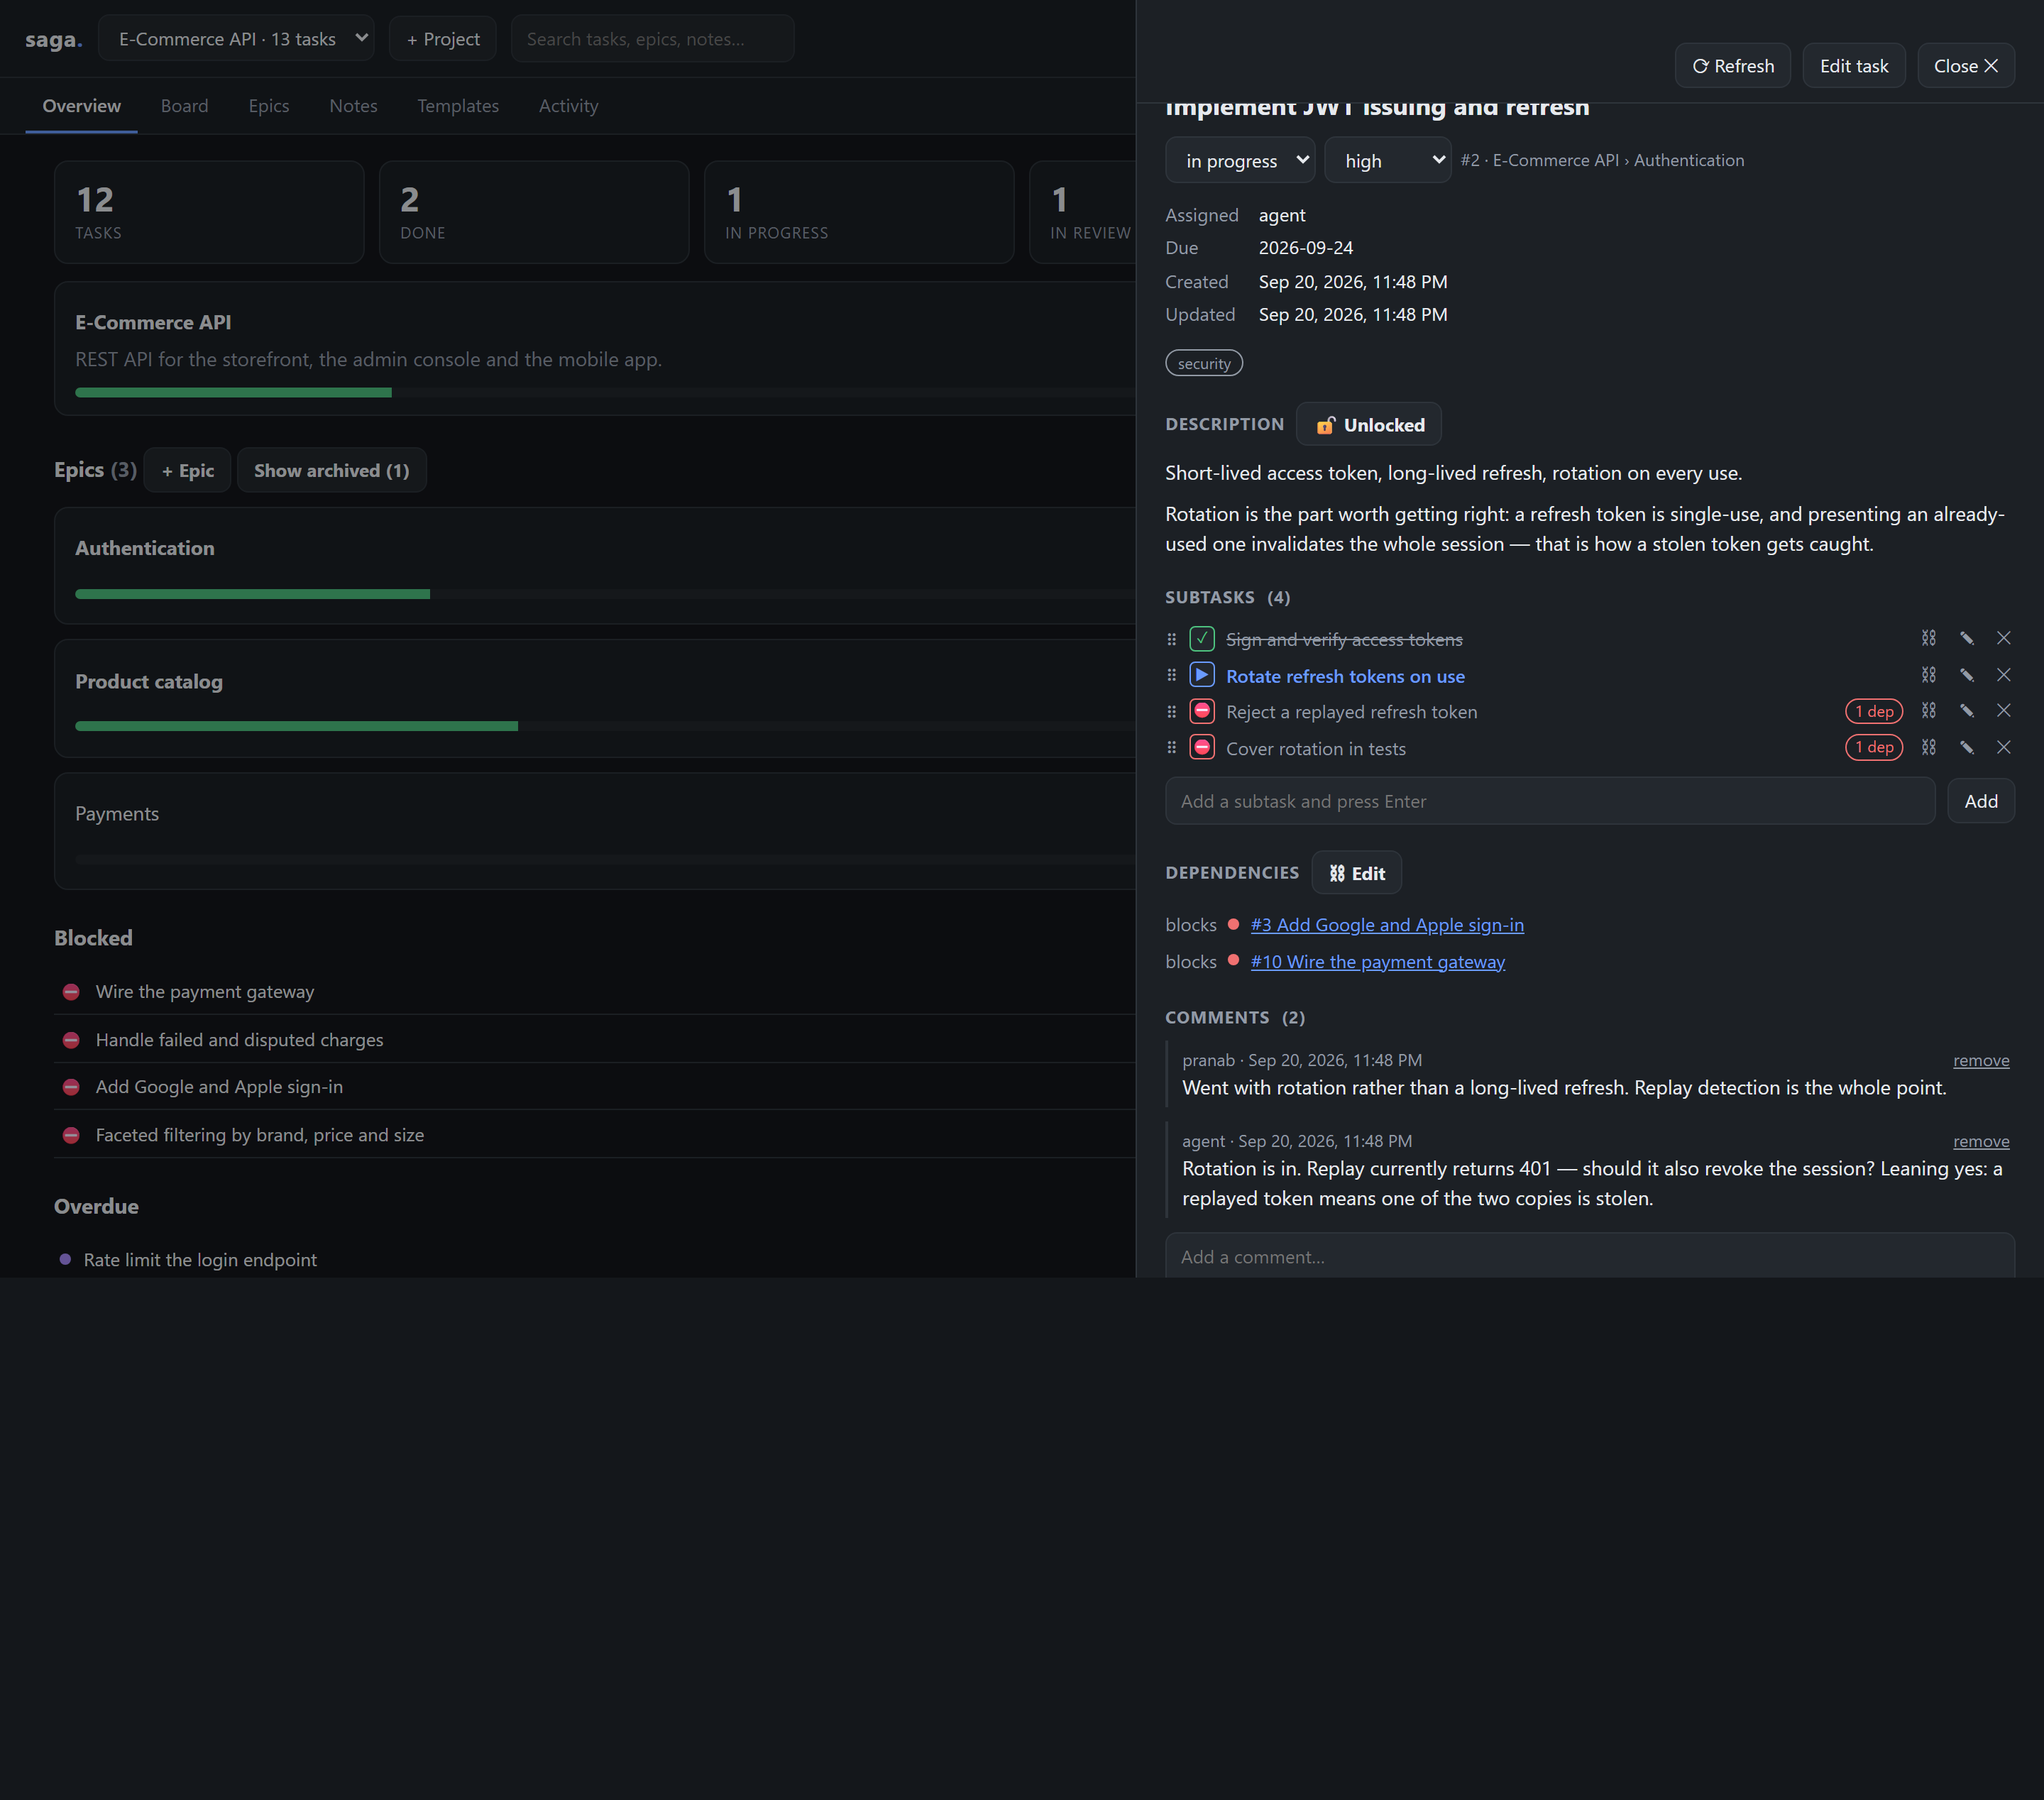
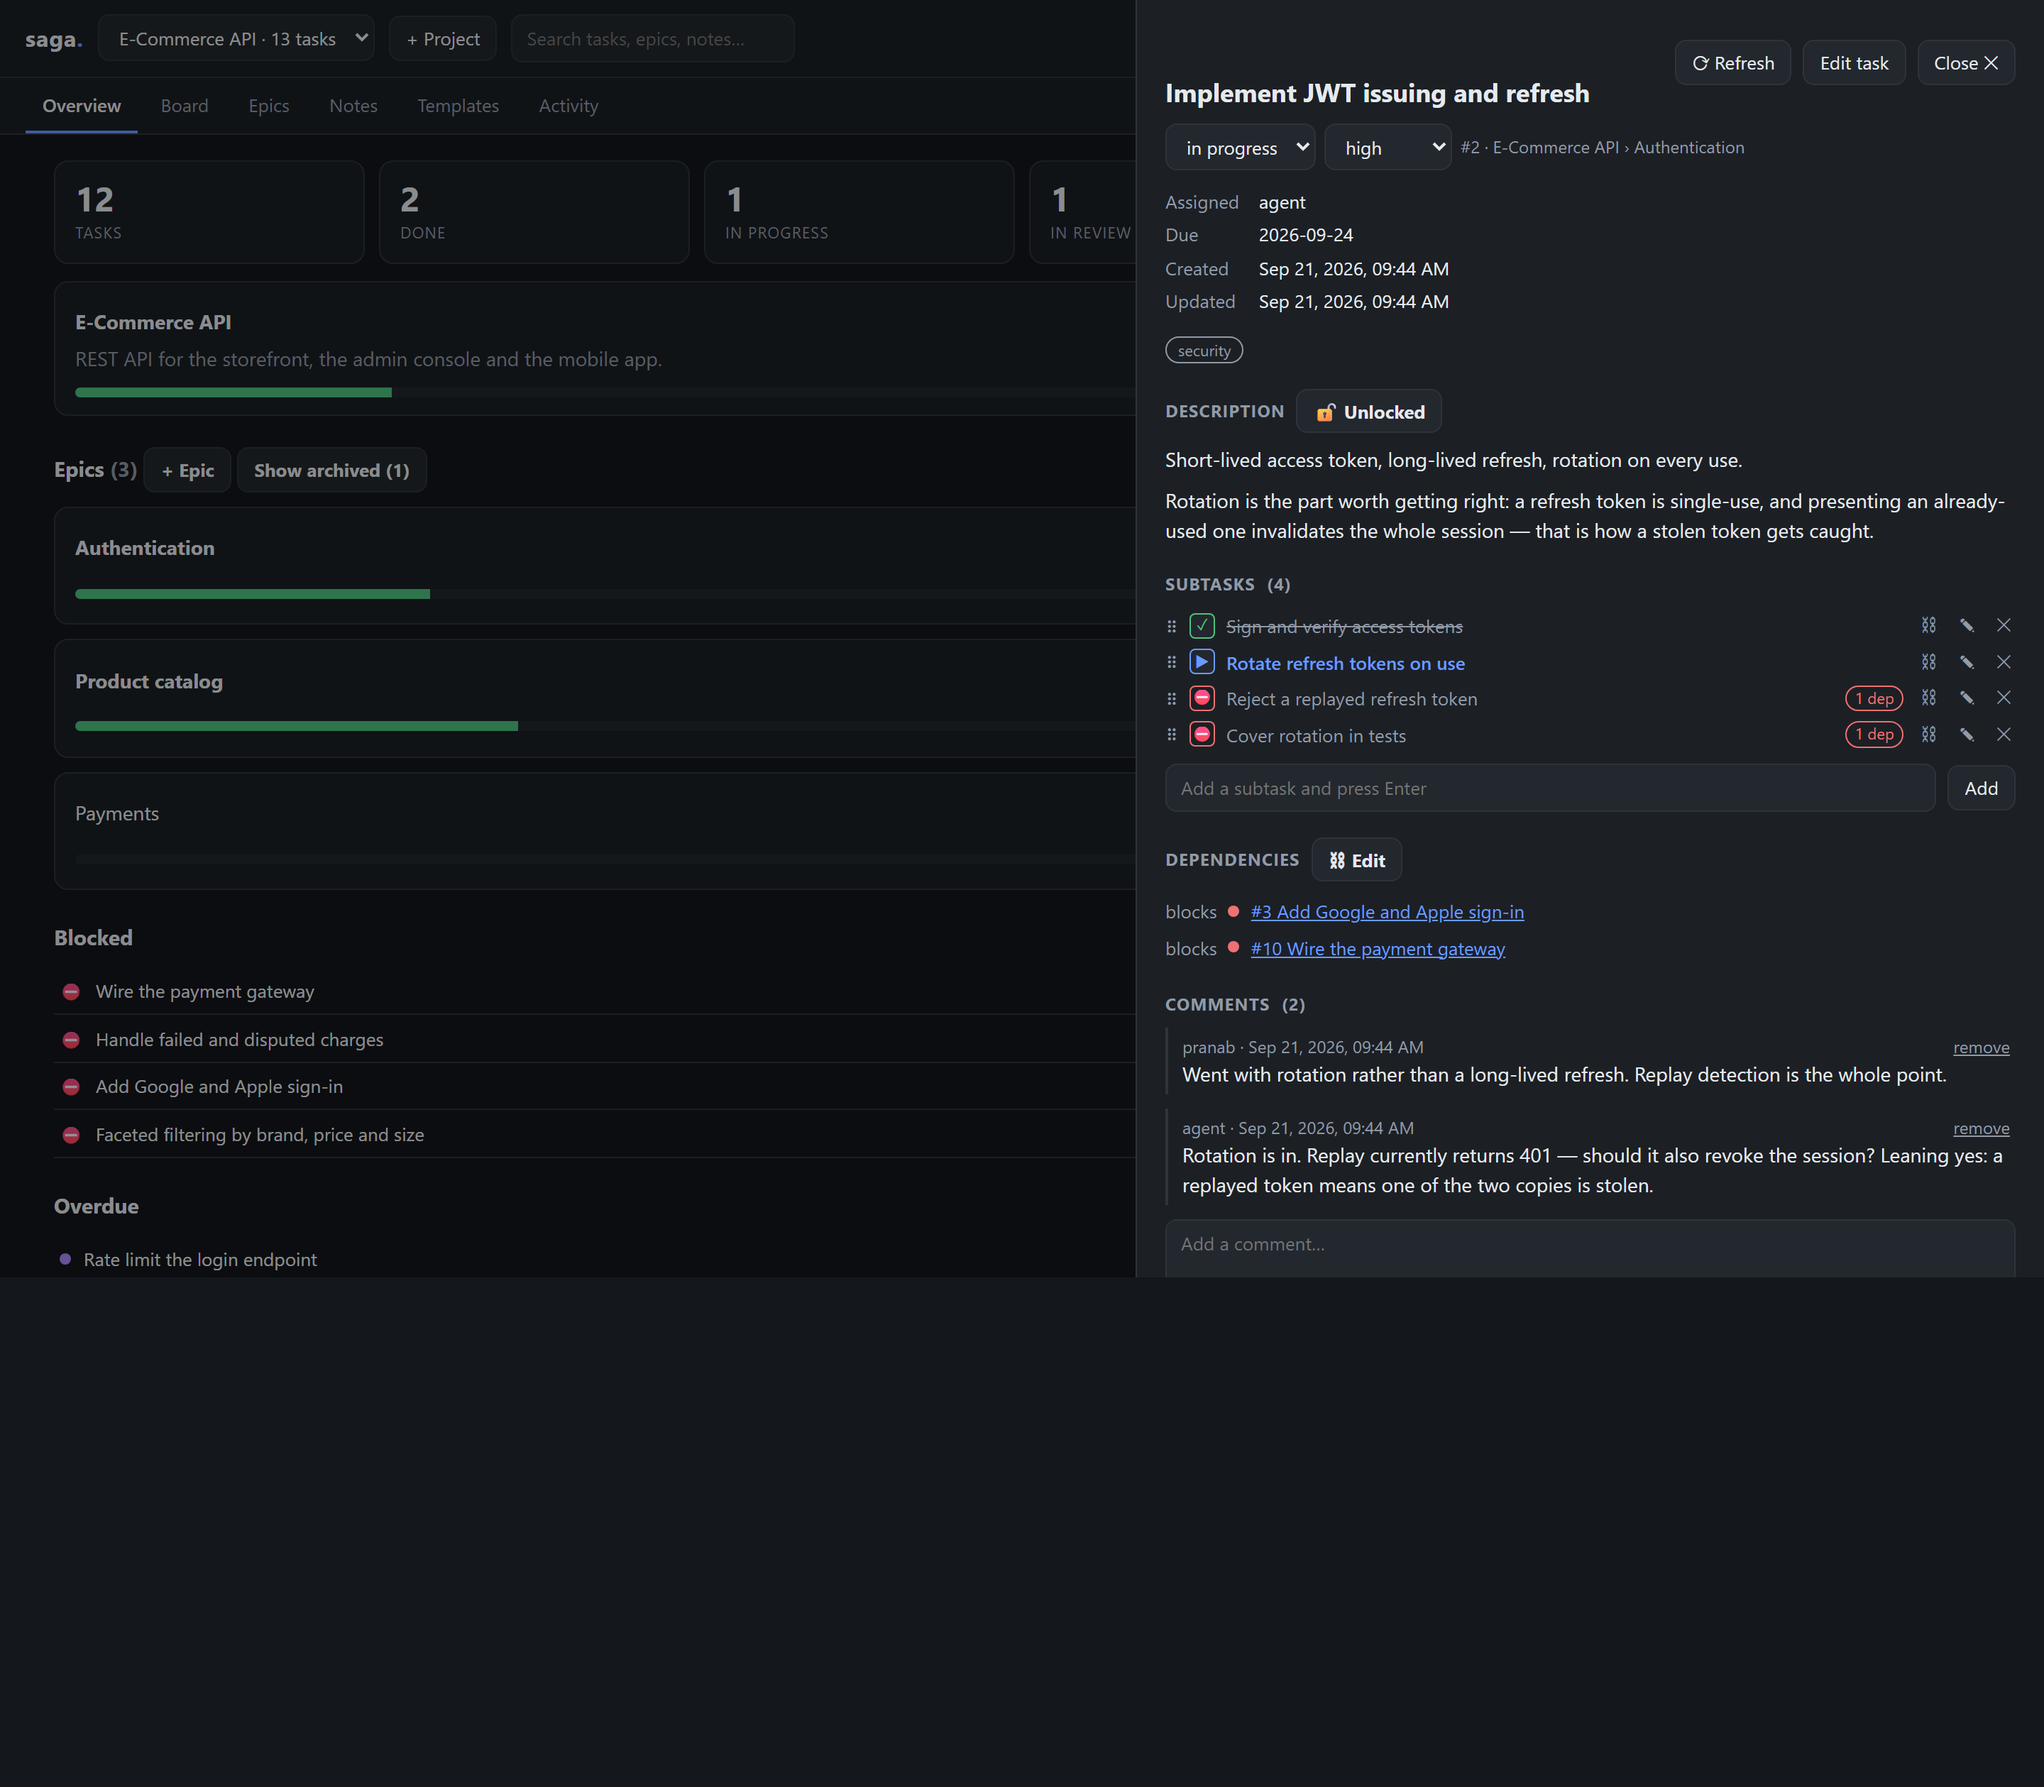
Paint the drawer's buttons, not a bar across the panel
@rusak47, on v1.17.0: "the panel background hides the text behind it. I
believe it's redundant." The screenshots show the top of the task title
disappearing under the pinned row. Asked whether it was the background or
the height, the answer was "I'm fine with an opaque background — just
something non-disturbing... no one reads the text behind buttons."

So the opaque area is now the buttons and nothing else. The row still
spans the drawer, because that is what keeps the buttons where they have
always been, but it paints nothing and draws no edge: the buttons sit on
a small rounded pad of panel colour, and text scrolling up passes to the
left of them, disappearing only where it goes behind a button.

The first cut was wrong about the risk. I gave the whole row a background
to stop text reading through bare buttons — but `button.btn` already
carries `--panel-2`, so the buttons were never the problem. The strip was
solving something that did not exist, and hiding a line of the task to do
it.

`pointer-events: none` on the row, `auto` on the pad. A transparent strip
that still swallowed clicks would be worse than the bar it replaces: the
blocked-by links sit directly under it.

The modal footer keeps its full-width bar. A dialog with a pinned footer
is a different thing from a panel whose title is the first casualty, and
nobody has reported it as one.

Verified in a browser at both scroll positions: the title stays readable
[…]

diff --git a/src/web/ui.ts b/src/web/ui.ts
@@ -199,13 +199,24 @@ pre.body {
  * with the content: on a long task, Refresh and Edit end up above the top of
  * the drawer and you have to scroll back for them (#57, reported by @rusak47).
  * Pin it to the drawer's own scrollport, the way the page header and tabs are
- * already pinned to the window. The negative margins let the bar span the
- * drawer's padding, so nothing scrolls past it through the gutters.
+ * already pinned to the window.
+ *
+ * The first cut painted the whole row, which turned it into a bar across the
+ * panel that swallowed the line scrolling under it — the task title, usually.
+ * @rusak47: "no one reads the text behind buttons". So the row positions and
+ * nothing else: only the buttons are opaque, and only they take clicks, or a
+ * transparent strip would eat clicks on the text it no longer hides.
  */
 .drawer-actions {
   position: sticky; top: 0; z-index: 1;
-  margin: -18px -20px 0; padding: 12px 20px 10px;
-  background: var(--panel); border-bottom: 1px solid var(--border);
+  margin: -18px -20px 0; padding: 10px 20px 4px;
+  pointer-events: none;
+}
+.drawer-actions .actionpad {
+  display: flex; align-items: center; gap: 8px;
+  pointer-events: auto;
+  margin: -4px -6px; padding: 4px 6px; border-radius: 10px;
+  background: var(--panel);
 }
 /* The same thing at the other end: a long form scrolls its own buttons away. */
 .modal-actions {
@@ -1371,14 +1382,14 @@ function drawTask() {
   if (savedWidth) d.style.width = savedWidth;
 
   var h = '<div class="drawer-resize" id="drawerResize" title="Drag to resize"></div>' +
-    '<div class="row drawer-actions"><span class="grow"></span>' +
+    '<div class="row drawer-actions"><span class="grow"></span><span class="actionpad">' +
     '<button class="btn" id="refreshTask" title="Re-read this task from the database">⟳ Refresh</button>' +
     (ed && t.is_deleted ? '<button class="btn" id="restoreTask">Restore</button>' : '') +
     (ed && !t.is_deleted && t.status === 'todo'
       ? '<button class="btn danger" id="deleteTask" title="Remove this task — kept for the audit trail, restorable">Remove</button>'
       : '') +
     (ed ? '<button class="btn" id="editTask">Edit task</button>' : '') +
-    '<button class="btn" id="closeDrawer">Close ✕</button></div>';
+    '<button class="btn" id="closeDrawer">Close ✕</button></span></div>';
   h += '<h2 style="margin:6px 0 8px;font-size:18px">' + esc(t.title) + '</h2>';
   var unmetDeps = (t.depends_on || []).filter(function (d) { return d.status !== 'done'; });
   if (unmetDeps.length) {

diff --git a/test/page.test.js b/test/page.test.js
@@ -326,12 +326,23 @@ test('the drawer pins its action row to the top of its own scroll', () => {
   assert.ok(script.includes('class="row drawer-actions"'), 'the drawer must use the pinned row');
 });
 
-test('the pinned row is opaque, so content cannot scroll through it', () => {
-  // A sticky bar with no background lets the text underneath read through it,
-  // which is worse than the buttons being out of reach.
-  const rule = ruleOf('.drawer-actions');
-  assert.equal(rule.background, 'var(--panel)', 'a see-through bar is worse than a hidden button');
-  assert.ok(rule.margin?.includes('-'), 'negative margins span the drawer padding, leaving no gutter');
+test('only the buttons are opaque, not the width of the whole panel', () => {
+  // The first cut painted the whole row, which made it a bar across the panel
+  // and hid the line scrolling under it — the task title, usually. @rusak47,
+  // on the released version: "no one reads the text behind buttons."
+  const row = ruleOf('.drawer-actions');
+  const pad = ruleOf('.drawer-actions .actionpad');
+  assert.ok(!row.background, 'the row must not paint a bar across the drawer');
+  assert.ok(!row['border-bottom'], 'nor draw an edge across it');
+  assert.equal(pad.background, 'var(--panel)', 'the buttons still need something opaque behind them');
+  assert.ok(script.includes('class="actionpad"'), 'the drawer must group its buttons on that pad');
+});
+
+test('text the row no longer hides can still be clicked', () => {
+  // A transparent strip that kept swallowing clicks would be worse than the
+  // bar it replaced: the blocked-by links sit directly under it.
+  assert.equal(ruleOf('.drawer-actions')['pointer-events'], 'none');
+  assert.equal(ruleOf('.drawer-actions .actionpad')['pointer-events'], 'auto');
 });
 
 test('a long form keeps its own submit button in view', () => {

diff --git a/README.md b/README.md
@@ -675,7 +675,7 @@ DB_PATH=./test.db npm start
 # the web UI against the same database
 node dist/web/index.js ./test.db --open
 
-npm test     # 358 unit and integration tests, no network
+npm test     # 359 unit and integration tests, no network
 npm run e2e  # release gate: packs a tarball, installs it, drives the real binaries
 ```
 
@@ -691,20 +691,20 @@ step, and it is triggered by publishing a GitHub release, not by pushing a tag.
 ```bash
 # 1. bump the version in package.json, manifest.json and server.json, then merge
 # 2. tag it. Nothing is published yet.
-git tag -a v1.17.0 -m "v1.17.0 — ..." && git push origin v1.17.0
+git tag -a v1.17.1 -m "v1.17.1 — ..." && git push origin v1.17.1
 
 # 3. verify the tagged build: this packs the tarball that would be published
 #    and drives it end to end, including an upgrade from an older database.
 npm run e2e
 
 # 4. publish the release. This fires the publish workflow.
-gh release create v1.17.0 --notes-file notes.md
+gh release create v1.17.1 --notes-file notes.md
 ```
 
 The workflow re-runs the suite against the tagged commit, refuses a tag that does not match
 `package.json`, refuses a version already on npm, and sends a GitHub *pre-release* to the `next`
 dist-tag so it never becomes what `npm install saga-mcp` gives people. A failed publish can be
-retried against the same tag with `gh workflow run "Publish to npm" -f tag=v1.17.0`.
+retried against the same tag with `gh workflow run "Publish to npm" -f tag=v1.17.1`.
 
 ---
 
